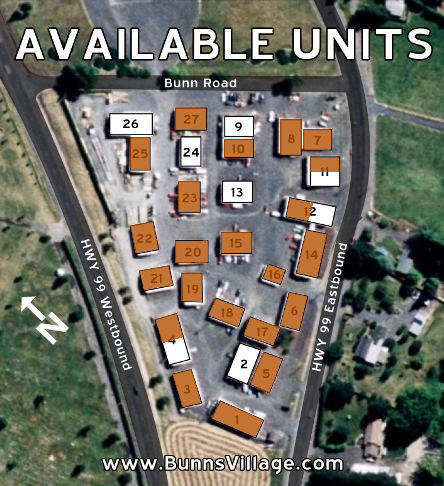
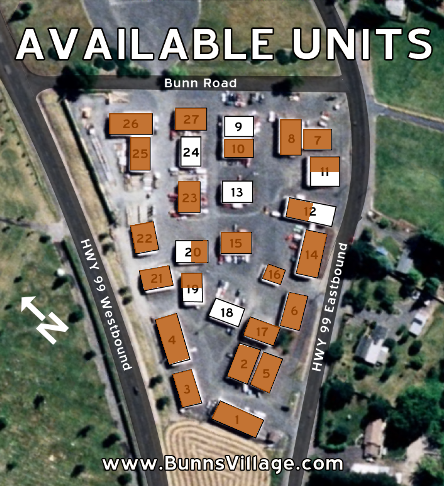
Squished nasty bug

diff --git a/index.html b/index.html
@@ -37,15 +37,16 @@
 
 
 
-<h3>AVAILABILITIES FOR JUNE 2019</h3>
+<h3>AVAILABILITIES FOR AUGUST 2019</h3>
 <img src="map.png" width="444" class="picture" usemap="#clickmap"> 
 <map name="clickmap">
-<area shape="poly" coords="313,203,336,206,332,226,308,221" href="http://www.bunnsvillage.com/12A.html" alt="#12A">
 <area shape="poly" coords="180,156,200,156,200,166,180,166" href="http://www.bunnsvillage.com/24B.html" alt="#24B">
-<area shape="poly" coords="109,113,152,113,152,134,109,134" href="http://www.bunnsvillage.com/26.html" alt="#26">
-<area shape="poly" coords="162,343,183,337,189,358,169,364" href="http://www.bunnsvillage.com/4A.html" alt="#4A">
-<area shape="poly" coords="222,180,253,180,252,202,222,202" href="http://www.bunnsvillage.com/13.html" alt="#13">
+<area shape="poly" coords="313,203,336,206,332,226,308,221" href="http://www.bunnsvillage.com/12A.html" alt="#12A">
+<area shape="poly" coords="175,241,191,241,191,263,175,263" href="http://www.bunnsvillage.com/20B.html" alt="#20B">
+<area shape="poly" coords="181,288,202,288,202,301,181,301" href="http://www.bunnsvillage.com/19A.html" alt="#19A">
 <area shape="poly" coords="310,172,339,172,339,186,310,185" href="http://www.bunnsvillage.com/11B.html" alt="#11B">
+<area shape="poly" coords="222,180,253,180,252,202,222,202" href="http://www.bunnsvillage.com/13.html" alt="#13">
+<area shape="poly" coords="215,298,244,309,237,327,208,315" href="http://www.bunnsvillage.com/18.html" alt="#18">
 <area shape="poly" coords="224,116,253,116,253,136,224,136" href="http://www.bunnsvillage.com/9.html" alt="#9">
 <area shape="poly" coords="180,136,200,136,200,156,180,156" href="http://www.bunnsvillage.com/24A.html" alt="#24A">
 </map>
@@ -59,15 +60,6 @@
 </th><th width="100"><b>Rate</b></th>
 <th width="100"><b>Availability</b></th>
 </tr>
-<tr align="center">
-<td width="100">4A</td>
-<td width="100"></td>
-<td width="100">0x0</td>
-<td width="100">
-<td width="100">$0</td>
-<td width="100"><a href = "http://www.bunnsvillage.com/4A.html">NOW</a></td>
-</tr>
-
 <tr align="center">
 <td width="100">9</td>
 <td width="100">2711 NE Bunn Road</td>
@@ -105,11 +97,38 @@
 </tr>
 
 <tr align="center">
+<td width="100">18</td>
+<td width="100">2747 NE Bunn Road</td>
+<td width="100">40x60x12</td>
+<td width="100">
+<td width="100">$1750</td>
+<td width="100"><a href = "http://www.bunnsvillage.com/18.html">NOW</a></td>
+</tr>
+
+<tr align="center">
+<td width="100">19A</td>
+<td width="100">2749 NE Bunn Road</td>
+<td width="100">40x30x14</td>
+<td width="100">200 amp 3-phase service
+<td width="100">$990</td>
+<td width="100"><a href = "http://www.bunnsvillage.com/19A.html">NOW</a></td>
+</tr>
+
+<tr align="center">
+<td width="100">20B</td>
+<td width="100">2755 NE Bunn Road</td>
+<td width="100">40x24x12</td>
+<td width="100">Newly remodeled interior and exterior
+<td width="100">$790</td>
+<td width="100"><a href = "http://www.bunnsvillage.com/20B.html">NOW</a></td>
+</tr>
+
+<tr align="center">
 <td width="100">24B</td>
 <td width="100">2771 NE Bunn Road</td>
 <td width="100">40x24x12</td>
 <td width="100">Fresh paint
-<td width="100">$790</td>
+<td width="100">$870</td>
 <td width="100"><a href = "http://www.bunnsvillage.com/24B.html">NOW</a></td>
 </tr>
 
@@ -118,17 +137,8 @@
 <td width="100">2769 NE Bunn Road</td>
 <td width="100">40x36x12</td>
 <td width="100">Fresh paint
-<td width="100">$1050</td>
+<td width="100">$1190</td>
 <td width="100"><a href = "http://www.bunnsvillage.com/24A.html">NOW</a></td>
-</tr>
-
-<tr align="center">
-<td width="100">26</td>
-<td width="100">2779 NE Bunn Road</td>
-<td width="100">40x88x12</td>
-<td width="100">This unit includes yard space (gravelled, fenced, and gated)
-<td width="100">$4200</td>
-<td width="100"><a href = "http://www.bunnsvillage.com/26.html">NOW</a></td>
 </tr>
 
 </tbody>

diff --git a/src/BuildingMaster.java b/src/BuildingMaster.java
@@ -75,6 +75,8 @@ public class BuildingMaster {
 
         HashMap<String, Building> allBldgs = new HashMap<>();
 
+        final HashSet<Building> rawBuildings = new HashSet<>();
+
         try {
             while (results.next()) {
 
@@ -101,7 +103,7 @@ public class BuildingMaster {
                 // Delineate by semicolon (up to max of 10 feature strings)
                 final String notes = results.getString("notes");
                 if (notes != null && notes.length() > 0) {
-                    String featureArray[] = notes.split(";", 10);
+                    String[] featureArray = notes.split(";", 10);
                     Arrays.stream(featureArray).forEach(building::addFeature);
                 }
 
@@ -110,7 +112,7 @@ public class BuildingMaster {
                 Polygon poly = new Polygon();
                 if (coords != null) {
                     // Extract coordinates from "coords" column
-                    String coordsArray[] = coords.split(",", 8);
+                    String[] coordsArray = coords.split(",", 8);
                     for (int i = 0; i < 8; i += 2) {
                         poly.addPoint(Integer.parseInt(coordsArray[i]), Integer.parseInt(coordsArray[i + 1]));
                     }
@@ -120,17 +122,19 @@ public class BuildingMaster {
                 // Occupancy test:
                 building.setIsOccupied(Arrays.stream(args).noneMatch((s) -> s.equalsIgnoreCase(building.name)));
                 allBldgs.put(building.name, building);
+                rawBuildings.add(building);
             }
         } catch (Exception e) {
             e.printStackTrace();
         }
 
-        System.out.println(allBldgs.size() + " units read");
+        System.out.println(rawBuildings.size() + " units read");
+        rawBuildings.forEach(building -> System.out.println(building.toString()));
 
         // Establish relationship between sub and masters
         final HashMap<String, Building> relationalMap = new HashMap<>();
-        allBldgs.values().stream()
-                .filter(building -> !building.name.contains("A") || !building.name.contains("B"))
+        rawBuildings.stream()
+                .filter(building -> !building.isSubunit())
                 .forEach(building -> {
                     final Building subUnitA = allBldgs.get(building.name + "A");
                     if (subUnitA != null) {
@@ -157,12 +161,12 @@ public class BuildingMaster {
 
         final Set<Building> alreadyProcessed = new HashSet<>();
         final List<Building> availableBuildings = allBuildings.values().stream()
-                .filter(bldg -> !bldg.isOccupied)
+                .filter(bldg -> !bldg.getIsOccupied())
                 .collect(Collectors.toList());
 
-        availableBuildings.forEach(bldg -> System.out.println("AVAILABLE: " + bldg.name));
-
         for (final Building building : availableBuildings) {
+
+            System.out.println("AVAILABLE: " + building.name);
 
             if (alreadyProcessed.contains(building)) {
                 continue;
@@ -191,7 +195,7 @@ public class BuildingMaster {
 
         for (final Building building : allBuildings.values()) {
 
-            if (!building.isOccupied || alreadyProcessed.contains(building)) {
+            if (!building.getIsOccupied() || alreadyProcessed.contains(building)) {
                 continue;
             }
 
@@ -227,5 +231,10 @@ public class BuildingMaster {
         final Map<String, Building> buildingMap = new HashMap<>();
         buildingsToRender.forEach(building -> buildingMap.put(building.name, building));
         return buildingMap;
+    }
+
+    // FOR TESTS
+    public HashMap<String, Building> getAllBuildings() {
+        return allBuildings;
     }
 }

diff --git a/test/BuildingMasterTests.java b/test/BuildingMasterTests.java
@@ -9,12 +9,66 @@ import static org.junit.jupiter.api.Assertions.*;
 class BuildingMasterTests {
 
     @Test
-    @DisplayName("Building without subunits should report as subunit")
+    @DisplayName("Building without subunits should not report as subunit")
     void subUnitTest() {
         final Building building = new Building();
         building.setName("10");
         assertFalse(building.isSubunit());
+        assertEquals(building.getSubunits().size(), 0);
     }
+
+    @Test
+    @DisplayName("unoccupied building without sub-units should render as a single building")
+    void legacyTest() {
+        final Building b = new Building();
+        b.setName("2");
+        b.setIsOccupied(false);
+
+        final HashMap<String, Building> allBuildings = new HashMap<>();
+        allBuildings.put(b.name, b);
+        BuildingMaster buildingMaster = new BuildingMaster(allBuildings);
+        buildingMaster.handleTransitiveOccupancy();
+
+        assertEquals(buildingMaster.getBuildings().size(), 1);
+    }
+
+    @Test
+    @DisplayName("WTF is going on")
+    void errorCaseTest() {
+
+        final HashMap<String, Building> allBuildings = new HashMap<>();
+
+        final Building b1 = new Building();
+        b1.setName("1");
+//        b1.setIsOccupied(true);
+        allBuildings.put(b1.name, b1);
+
+        final Building b2 = new Building();
+        b2.setName("10");
+        allBuildings.put(b2.name, b2);
+
+//        final Building b2a = new Building();
+//        b2a.setName("11A");
+//        b2a.setIsOccupied(false);
+//
+//        final Building b2b = new Building();
+//        b2b.setName("11B");
+//        b2b.setIsOccupied(true);
+//
+//        b2.addSubunit(b2a);
+//        b2.addSubunit(b2b);
+//
+//
+//        allBuildings.put(b2a.name, b2a);
+//        allBuildings.put(b2b.name, b2b);
+
+        BuildingMaster buildingMaster = new BuildingMaster(allBuildings);
+        buildingMaster.handleTransitiveOccupancy();
+
+        assertEquals(buildingMaster.getBuildings().size(), buildingMaster.getAllBuildings().size());
+
+    }
+
 
     @Test
     @DisplayName("sub-units of an occupied master units should not render")
@@ -42,7 +96,7 @@ class BuildingMasterTests {
 
         final Map<String,Building> buildings = buildingMaster.getBuildings();
 
-        assertFalse(buildings.get(master.name).isOccupied);
+        assertFalse(buildings.get(master.name).getIsOccupied());
         assertFalse(buildings.get(master.name).shouldDraw);
 
         assertEquals(3, buildings.values().size());

diff --git a/src/Building.java b/src/Building.java
@@ -12,7 +12,7 @@ public class Building implements Comparable {
     private final Set<Building> subunits;
 
     // By default buildings are occupied and should draw on the map
-    public boolean isOccupied = true;
+    private boolean isOccupied = true;
     public boolean shouldDraw = true;
 
     public ArrayList<String> features;
@@ -35,7 +35,7 @@ public class Building implements Comparable {
 
     public String getMasterBuildingName() {
         if (!isSubunit()) return "";
-        return name.substring(0, name.length() - 1);
+        return name.replace("A", "").replace("B", "");
     }
 
     public void setAddress(final String address) {
@@ -46,12 +46,15 @@ public class Building implements Comparable {
         this.isOccupied = isOccupied;
     }
 
+    public boolean getIsOccupied() { return isOccupied; }
+
     public void setShouldDraw(final boolean shouldDraw) {
         this.shouldDraw = shouldDraw;
+        // System.out.println(name + " should DRAW: " + shouldDraw);
     }
 
     public boolean isSubunit() {
-        return !subunits.isEmpty();
+        return !subunits.isEmpty() && !name.contains("A") && !name.contains("B");
     }
 
     public void setPolygon(final Polygon polygon) {

diff --git a/src/WebUpdater.java b/src/WebUpdater.java
@@ -103,7 +103,7 @@ public class WebUpdater {
         // If an erroneous building is entered, do not generate clickmap table entry for it
         for (Building b : allBuildings.values()) {
 
-            if (b.isOccupied)
+            if (b.getIsOccupied())
                 continue;
 
             // Extract a polygon and it's list posy x and y points
@@ -149,7 +149,7 @@ public class WebUpdater {
         }
 
 
-        if (allBuildings.values().stream().allMatch((b) -> b.isOccupied)) {
+        if (allBuildings.values().stream().allMatch(Building::getIsOccupied)) {
             index.println("</tbody>\n </table>");
             index.println("<h2>We're sorry-- there are no buildings currently available for lease.</h2>");
             return;
@@ -158,7 +158,7 @@ public class WebUpdater {
 
         // For each available building, add attributes to the "avail table"
         final List<Building> sortedBuildings = allBuildings.values().stream()
-                .filter(building -> !building.isOccupied)
+                .filter(building -> !building.getIsOccupied())
                 .sorted()
                 .collect(Collectors.toList());
 

diff --git a/src/MapUpdater.java b/src/MapUpdater.java
@@ -34,7 +34,7 @@ class MapUpdater {
 
         BufferedImage return_image = null;
 
-        try (InputStream fin = getClass().getResourceAsStream("resources/blankmap.png");) {
+        try (InputStream fin = getClass().getResourceAsStream("resources/blankmap.png")) {
             return_image = ImageIO.read(fin);
         } catch (IOException e) {
             e.printStackTrace();
